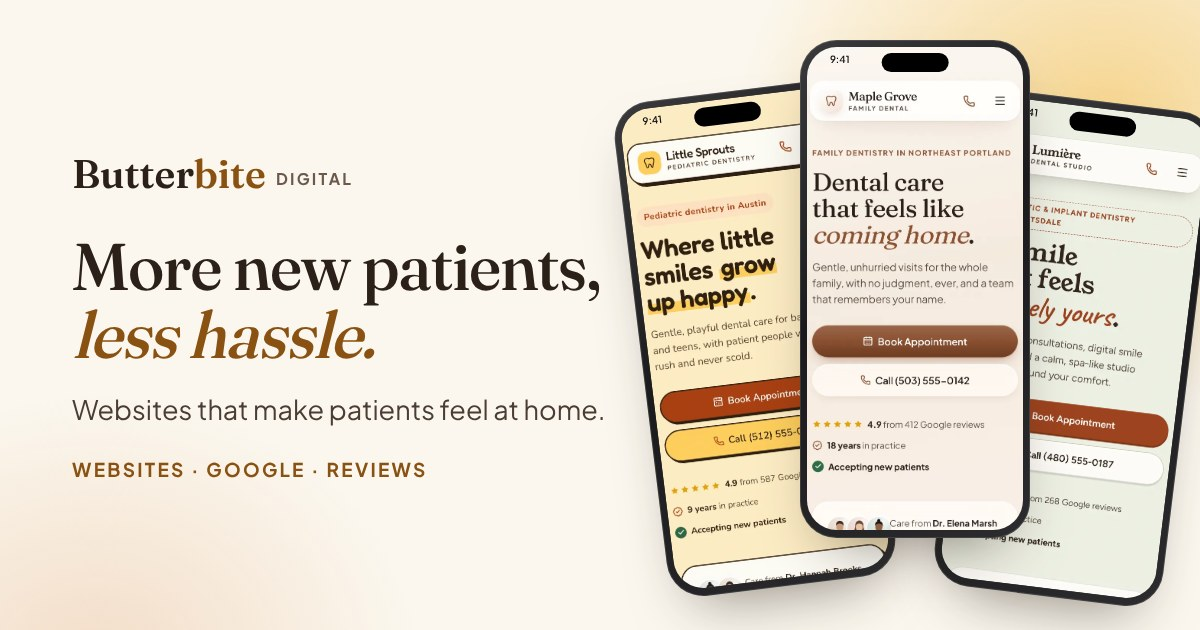
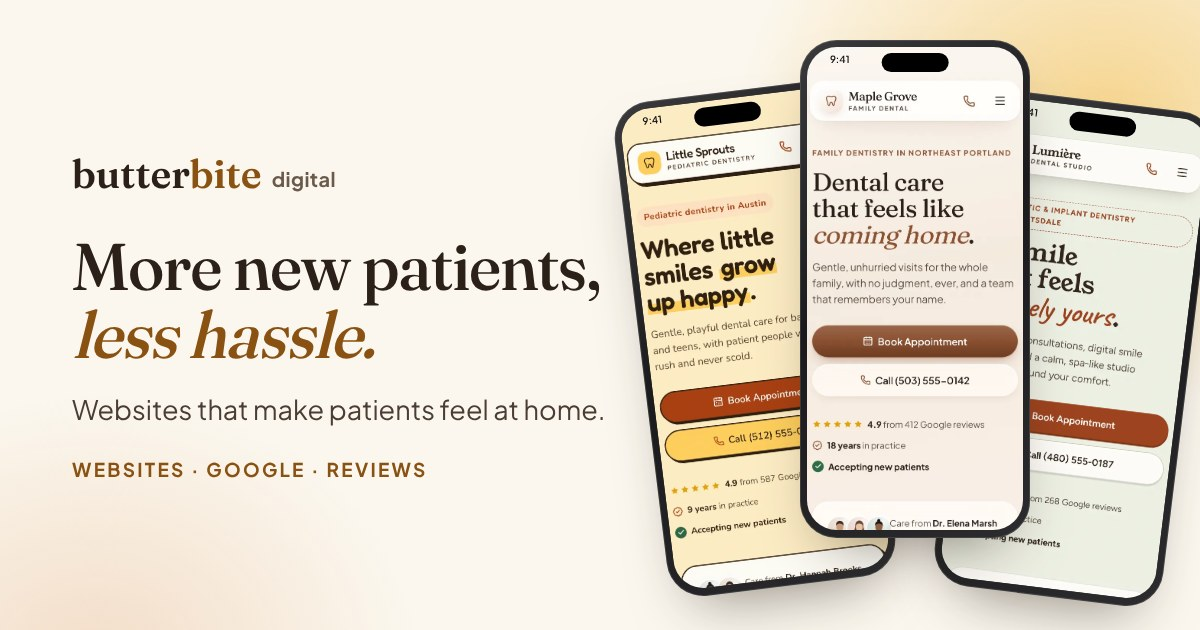
Write the brand in lowercase: butterbite digital
Site title, link previews, logo, copy, footer and the contact-form email
now say "butterbite digital". The logo no longer forces "digital" into
capitals. Regenerated og.jpg.

Claude-Session: https://claude.ai/code/session_01Dz74CLANB8ZvbaNPtyytFn

Changed region(s): [[0.0617, 0.2413, 0.3083, 0.3016]]

diff --git a/business-site/public/index.html b/business-site/public/index.html
@@ -5,18 +5,18 @@
 <meta name="viewport" content="width=device-width, initial-scale=1">
 <!-- Remove noindex at launch, once the real name and domain are set. -->
 <meta name="robots" content="noindex, nofollow">
-<title>Butterbite Digital | Websites and marketing for dental practices</title>
-<meta name="description" content="Butterbite Digital builds modern websites and handles Google profiles and reviews for dental practices, so new patients find you and pick you.">
+<title>butterbite digital | Websites and marketing for dental practices</title>
+<meta name="description" content="butterbite digital builds modern websites and handles Google profiles and reviews for dental practices, so new patients find you and pick you.">
 <!-- Link previews (texts, email, social). Absolute URLs: update when the real domain is set. -->
 <meta property="og:type" content="website">
-<meta property="og:site_name" content="Butterbite Digital">
-<meta property="og:title" content="Butterbite Digital | More new patients, less hassle">
+<meta property="og:site_name" content="butterbite digital">
+<meta property="og:title" content="butterbite digital | More new patients, less hassle">
 <meta property="og:description" content="Websites that make patients feel at home, plus Google profile and review care for dental practices.">
 <meta property="og:url" content="https://butterbite-site.butterbite.workers.dev/">
 <meta property="og:image" content="https://butterbite-site.butterbite.workers.dev/og.jpg">
 <meta property="og:image:width" content="1200">
 <meta property="og:image:height" content="630">
-<meta property="og:image:alt" content="Butterbite Digital: More new patients, less hassle. Three example dental websites on phones.">
+<meta property="og:image:alt" content="butterbite digital: More new patients, less hassle. Three example dental websites on phones.">
 <meta name="twitter:card" content="summary_large_image">
 <link rel="icon" href="/favicon.svg" type="image/svg+xml">
 <link rel="preconnect" href="https://fonts.googleapis.com">
@@ -56,10 +56,10 @@
   @media (max-width: 419px) { header .btn { display: none; } }
   @media (max-width: 440px) {
     .logo { font-size: 1.3rem; }
-    .logo small { font-size: .6rem !important; margin-left: 4px !important; }
+    .logo small { font-size: .78rem !important; margin-left: 4px !important; }
     header .btn { padding: 0 14px; font-size: .9rem; white-space: nowrap; }
   }
-  .logo small { margin-left: 6px; font-family: "Plus Jakarta Sans", sans-serif; font-size: .72rem; font-weight: 700; letter-spacing: .14em; text-transform: uppercase; color: var(--muted); vertical-align: middle; }
+  .logo small { margin-left: 6px; font-family: "Plus Jakarta Sans", sans-serif; font-size: .9rem; font-weight: 700; letter-spacing: .02em; color: var(--muted); vertical-align: middle; }
   .nav ul { display: flex; gap: 26px; list-style: none; margin: 0; padding: 0; }
   .nav ul a { color: var(--ink); text-decoration: none; font-weight: 600; }
   .nav .btn { min-height: 44px; padding: 0 20px; }
@@ -182,7 +182,7 @@
 
 <header>
   <div class="wrap nav">
-    <a class="logo" href="#top">Butter<span>bite</span><small>Digital</small></a>
+    <a class="logo" href="#top">butter<span>bite</span><small>digital</small></a>
     <nav aria-label="Main">
       <ul>
         <li><a href="#services">What we do</a></li>
@@ -201,7 +201,7 @@
       <div>
         <p class="eyebrow">For dental practices</p>
         <h1>More new patients, <em>less hassle.</em></h1>
-        <p class="lead">Butterbite builds modern websites and keeps your Google profile and reviews working for you, so new patients find you and pick you.</p>
+        <p class="lead">butterbite builds modern websites and keeps your Google profile and reviews working for you, so new patients find you and pick you.</p>
         <div class="actions">
           <a class="btn btn-primary" href="#contact">Request a free demo</a>
           <a class="btn btn-ghost" href="#examples">See example sites</a>
@@ -298,7 +298,7 @@
 
   <section class="dark" aria-labelledby="diff-title">
     <div class="wrap">
-      <p class="eyebrow">Why Butterbite</p>
+      <p class="eyebrow">Why butterbite</p>
       <h2 id="diff-title">Fair terms, real people</h2>
       <div class="compare">
         <div class="card"><h3>You own your domain</h3><p>Your web address is registered to your practice, always.</p></div>
@@ -364,7 +364,7 @@
 
 <footer>
   <div class="wrap">
-    <p>© 2026 Butterbite Digital. Websites and marketing for dental practices.</p>
+    <p>© 2026 butterbite digital. Websites and marketing for dental practices.</p>
     <p>Example sites shown are fictional practices.</p>
   </div>
 </footer>

diff --git a/business-site/og/og.html b/business-site/og/og.html
@@ -11,7 +11,7 @@
   .text { position: absolute; left: 72px; top: 0; bottom: 0; width: 560px; display: flex; flex-direction: column; justify-content: center; }
   .logo { font-family: Fraunces, serif; font-weight: 600; font-size: 40px; }
   .logo span { color: #8a5212; }
-  .logo small { margin-left: 10px; font-family: "Plus Jakarta Sans", sans-serif; font-size: 16px; font-weight: 700; letter-spacing: .14em; text-transform: uppercase; color: #6b5a4c; vertical-align: middle; }
+  .logo small { margin-left: 10px; font-family: "Plus Jakarta Sans", sans-serif; font-size: 20px; font-weight: 700; letter-spacing: .02em; color: #6b5a4c; vertical-align: middle; }
   h1 { font-family: Fraunces, serif; font-weight: 500; font-size: 66px; line-height: 1.04; letter-spacing: -.02em; margin-top: 34px; }
   h1 em { color: #8a5212; }
   p { font-size: 27px; color: #4a3d33; margin-top: 22px; line-height: 1.35; }
@@ -29,7 +29,7 @@
 </head>
 <body>
   <div class="text">
-    <div class="logo">Butter<span>bite</span><small>Digital</small></div>
+    <div class="logo">butter<span>bite</span><small>digital</small></div>
     <h1>More new patients, <em>less hassle.</em></h1>
     <p>Websites that make patients feel at home.</p>
     <div class="tag">Websites · Google · Reviews</div>

diff --git a/business-site/worker.ts b/business-site/worker.ts
@@ -56,7 +56,7 @@ async function handleContact(request: Request, env: Env): Promise<Response> {
   try {
     await env.EMAIL.send({
       to: env.CONTACT_TO,
-      from: { email: env.CONTACT_FROM, name: "Butterbite Digital website" },
+      from: { email: env.CONTACT_FROM, name: "butterbite digital website" },
       replyTo: { email, name },
       subject: `Free demo request: ${practice} (${name})`,
       text: [
@@ -70,7 +70,7 @@ async function handleContact(request: Request, env: Env): Promise<Response> {
         note || "(No message.)",
         "",
         "—",
-        "Sent by the Butterbite Digital website. The website does not keep a copy of this message.",
+        "Sent by the butterbite digital website. The website does not keep a copy of this message.",
       ].join("\n"),
     });
   } catch {
